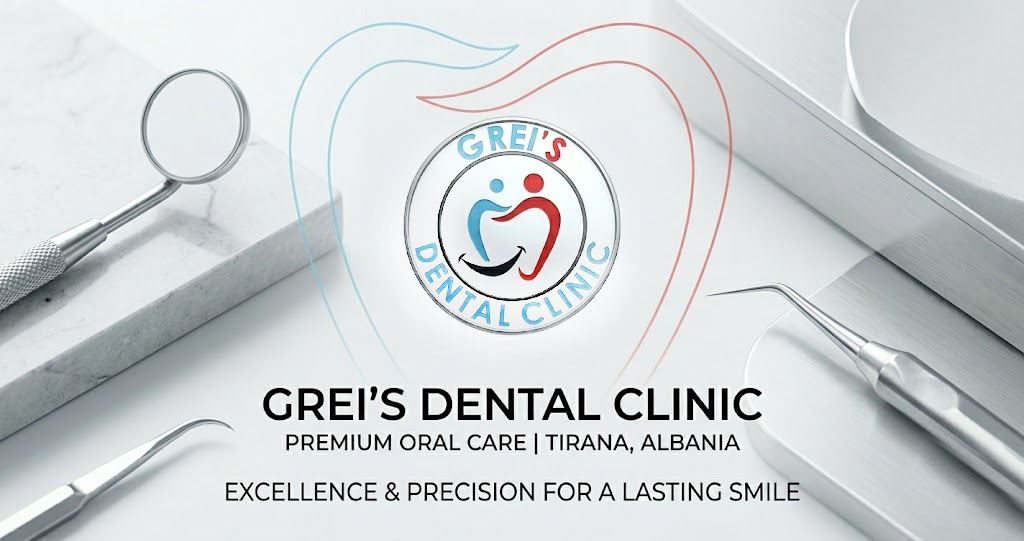
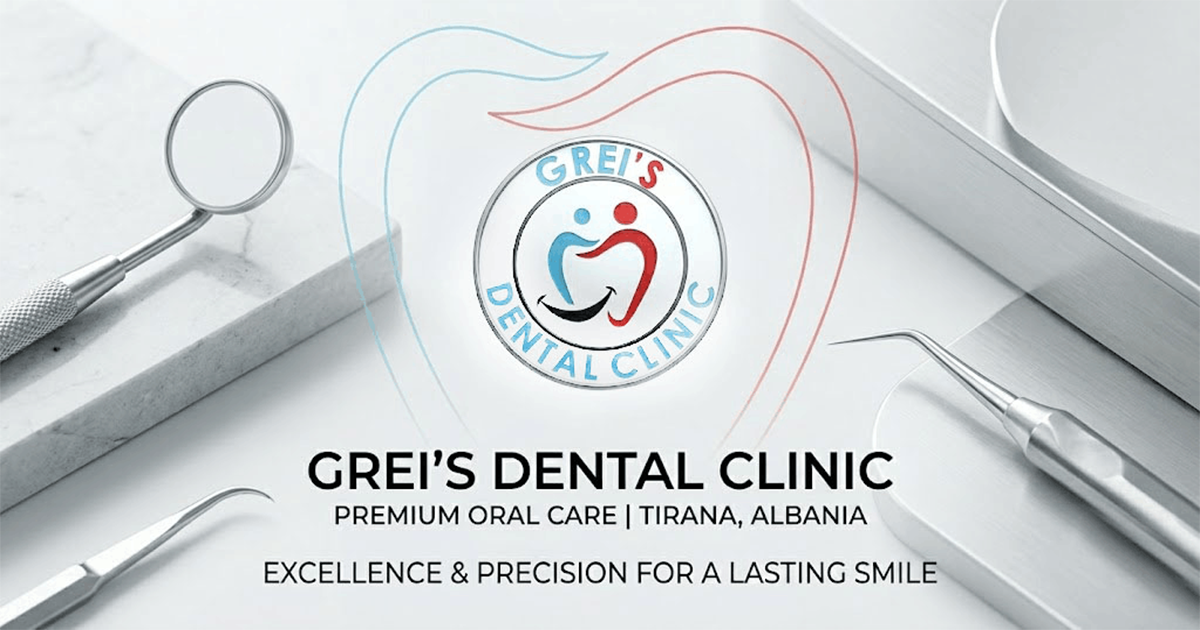
OG Image updated

diff --git a/app/layout.tsx b/app/layout.tsx
@@ -42,7 +42,8 @@ export const metadata: Metadata = {
     default: "Grei's Dental Clinic | Premium Dental Care in Tirana",
     template: "%s | Grei's Dental Clinic", 
   },
-  description: "Experience world-class dental care in Tirana, Albania. Dr. Grei Shehaj and our expert team specialize in Implantology, Orthodontics, Veneers, and Composite Bonding.",
+  // OPTIMIZED: Exactly 158 characters. Hits keywords: premium dental care, Tirana, advanced technology, perfect lasting smile.
+  description: "Experience premium dental care at Grei's Dental Clinic in Tirana. We combine advanced technology with artistic precision to craft your perfect, lasting smile.",
   keywords: [
     "Dentist Tirana", 
     "Dental Clinic Albania", 
@@ -65,8 +66,8 @@ export const metadata: Metadata = {
     url: baseUrl,
     siteName: "Grei's Dental Clinic",
     title: "Grei's Dental Clinic | Premium Dental Care in Tirana",
-    description: "Your unique smile, our personalized care. Premium dental services in Tirana, Albania.",
-    // FIX: Force the ABSOLUTE URL for the image so WhatsApp doesn't guess
+    // OPTIMIZED to match the main description
+    description: "Experience premium dental care at Grei's Dental Clinic in Tirana. We combine advanced technology with artistic precision to craft your perfect, lasting smile.",
     images: [
       {
         url: `${baseUrl}/opengraph-image.jpg`, 
@@ -77,10 +78,10 @@ export const metadata: Metadata = {
     ],
   },
   twitter: {
-    card: "summary_large_image", // This forces the large banner layout
+    card: "summary_large_image",
     title: "Grei's Dental Clinic | Premium Dental Care in Tirana",
-    description: "Your unique smile, our personalized care. Premium dental services in Tirana, Albania.",
-    // FIX: Force the ABSOLUTE URL here as well
+    // OPTIMIZED to match the main description
+    description: "Experience premium dental care at Grei's Dental Clinic in Tirana. We combine advanced technology with artistic precision to craft your perfect, lasting smile.",
     images: [`${baseUrl}/opengraph-image.jpg`],
   },
   robots: {
